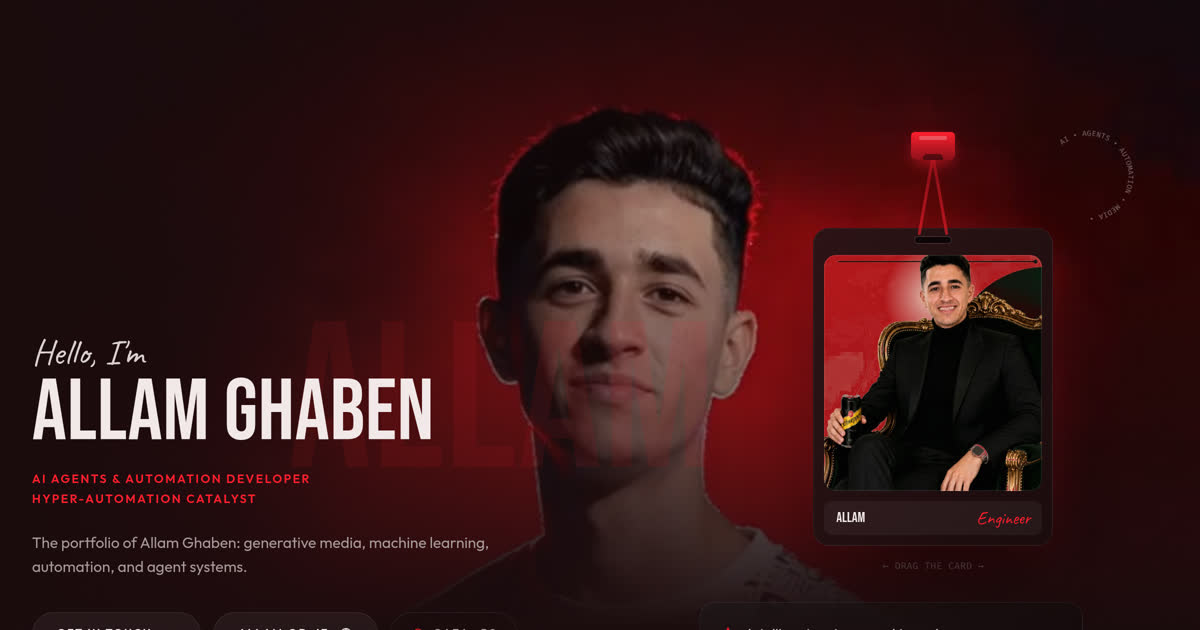
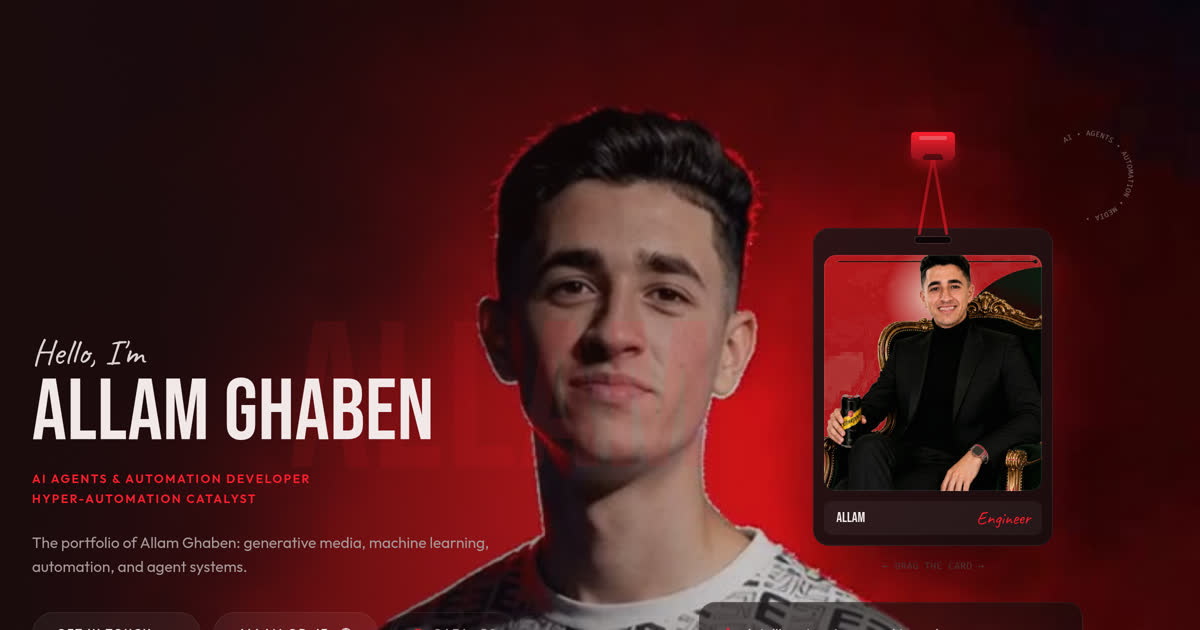
Fix the clip behind the whole page and scrub it with document scroll
The clip now stays put on screen for the entire site while every section
travels over it, and document scroll position drives playback: down runs it
forward, back up runs it in reverse.

Scoping the same effect to the hero alone is what made the earlier attempt
read as broken — the footage was spent within the first screen and then sat
frozen for the rest of the page. Mapping it across the full document is what
ties the whole scroll to it.

- SiteBackdrop replaces HeroBackdrop/HeroStage: position fixed rather than
  sticky, so it is never scoped to a section
- Past the hero the sections sit on a translucent panel, so the clip still
  shows through but the copy keeps its contrast
- `object-cover` keeps the frame filling the viewport, so there is still no
  clip edge to feather

Verified at 1280/768/390: scrubs forward on the way down and in reverse on the
way back, stays at the viewport top throughout, no horizontal overflow, no
page errors, no failed requests.

Claude-Session: https://claude.ai/code/session_011Hm43Fk7vKVAqGhMPXy5dZ

Changed region(s): [[0.1542, 0.4524, 1.0, 1.0]]

diff --git a/components/SiteBackdrop.tsx b/components/SiteBackdrop.tsx
@@ -1,0 +1,100 @@
+'use client';
+
+import { useEffect, useRef } from 'react';
+
+/**
+ * Page-wide backdrop: the clip is fixed to the viewport for the whole site,
+ * and document scroll position drives its playback.
+ *
+ * Scrolling down walks forward through the footage, scrolling back up runs it
+ * in reverse. It never moves — the sections travel over it.
+ *
+ * An earlier revision scoped the same effect to the hero alone, which is why
+ * it read as broken: the footage was spent within the first screen and then
+ * sat frozen for the rest of the page. Mapping it across the full document
+ * is what makes the whole scroll feel connected to it.
+ *
+ * `object-cover` keeps the frame filling the viewport, so there is no clip
+ * edge to feather.
+ */
+export default function SiteBackdrop() {
+  const videoRef = useRef<HTMLVideoElement>(null);
+
+  useEffect(() => {
+    const video = videoRef.current;
+    if (!video) return;
+
+    // Scrubbing is motion the user did not ask for; hold the poster instead.
+    if (window.matchMedia('(prefers-reduced-motion: reduce)').matches) {
+      video.pause();
+      return;
+    }
+
+    let raf = 0;
+    let target = 0;
+    let eased = 0;
+    let ready = false;
+
+    const onLoaded = () => {
+      ready = Number.isFinite(video.duration) && video.duration > 0;
+    };
+
+    const measure = () => {
+      const doc = document.documentElement;
+      const span = doc.scrollHeight - window.innerHeight;
+      const progress = span > 0 ? Math.min(1, Math.max(0, window.scrollY / span)) : 0;
+      target = progress * (video.duration || 0);
+    };
+
+    const tick = () => {
+      raf = requestAnimationFrame(tick);
+      if (!ready) return;
+      // Ease toward the target so a flick of the wheel doesn't snap frames,
+      // and so the reverse direction stays as smooth as the forward one.
+      eased += (target - eased) * 0.1;
+      if (Math.abs(video.currentTime - eased) > 0.015) {
+        // fastSeek trades exact-frame accuracy for a much cheaper seek.
+        if (typeof video.fastSeek === 'function') video.fastSeek(eased);
+        else video.currentTime = eased;
+      }
+    };
+
+    video.pause();
+    video.addEventListener('loadedmetadata', onLoaded);
+    if (video.readyState >= 1) onLoaded();
+
+    measure();
+    window.addEventListener('scroll', measure, { passive: true });
+    window.addEventListener('resize', measure);
+    raf = requestAnimationFrame(tick);
+
+    return () => {
+      cancelAnimationFrame(raf);
+      video.removeEventListener('loadedmetadata', onLoaded);
+      window.removeEventListener('scroll', measure);
+      window.removeEventListener('resize', measure);
+    };
+  }, []);
+
+  return (
+    <div className="pointer-events-none fixed inset-0 z-0" aria-hidden="true">
+      <video
+        ref={videoRef}
+        poster="/assets/hero-poster.jpg"
+        muted
+        playsInline
+        /* Fully buffered up front: scrubbing a partially loaded file stalls. */
+        preload="auto"
+        className="h-full w-full object-cover object-[62%_top]"
+      >
+        <source src="/assets/hero-loop.webm" type="video/webm" />
+        <source src="/assets/hero-loop.mp4" type="video/mp4" />
+      </video>
+
+      {/* Weighted left, where the hero copy sits, and released on the right so
+          he stays clearly visible. */}
+      <div className="absolute inset-0 bg-gradient-to-r from-void from-2% via-void/45 via-42% to-transparent to-80%" />
+      <div className="absolute inset-0 bg-[radial-gradient(ellipse_46%_40%_at_8%_44%,rgba(25,10,12,0.9),transparent_72%)]" />
+    </div>
+  );
+}

diff --git a/app/page.tsx b/app/page.tsx
@@ -1,6 +1,6 @@
+import SiteBackdrop from '@/components/SiteBackdrop';
 import Nav from '@/components/Nav';
 import Hero from '@/components/Hero';
-import HeroStage from '@/components/HeroStage';
 import Services from '@/components/Services';
 import Gallery from '@/components/Gallery';
 import Instagram from '@/components/Instagram';
@@ -10,16 +10,21 @@ import Dock from '@/components/Dock';
 export default function Home() {
   return (
     <>
+      {/* Fixed for the whole page and scrubbed by document scroll. */}
+      <SiteBackdrop />
       <Nav />
-      <main>
-        {/* The clip is pinned across both sections and scrubbed by scroll,
-            so moving down the page walks through the footage. */}
-        <HeroStage>
-          <Hero />
-          <Services />
-        </HeroStage>
-        <Gallery />
-        <Instagram />
+      <main className="relative z-10">
+        <Hero />
+        <Services />
+        {/*
+          Past the hero the clip should recede rather than compete: these
+          sections sit on a translucent panel, so it still shows through but
+          the copy keeps its contrast.
+        */}
+        <div className="relative bg-void/80 backdrop-blur-[2px]">
+          <Gallery />
+          <Instagram />
+        </div>
       </main>
       <Contact />
       <Dock />

diff --git a/components/Contact.tsx b/components/Contact.tsx
@@ -4,7 +4,7 @@ import { ArrowIcon, SparkIcon, socialIconMap, type SocialIconName } from './Icon
 
 export default function Contact() {
   return (
-    <footer id="contact" className="relative z-10 px-5 pb-36 pt-16 sm:px-8 sm:pb-40 sm:pt-24">
+    <footer id="contact" className="relative z-10 bg-void/80 px-5 pb-36 pt-16 backdrop-blur-[2px] sm:px-8 sm:pb-40 sm:pt-24">
       <div className="mx-auto w-full max-w-6xl">
         <div className="card overflow-hidden p-7 sm:p-12">
           <div className="grid gap-12 lg:grid-cols-[1fr_1fr]">
